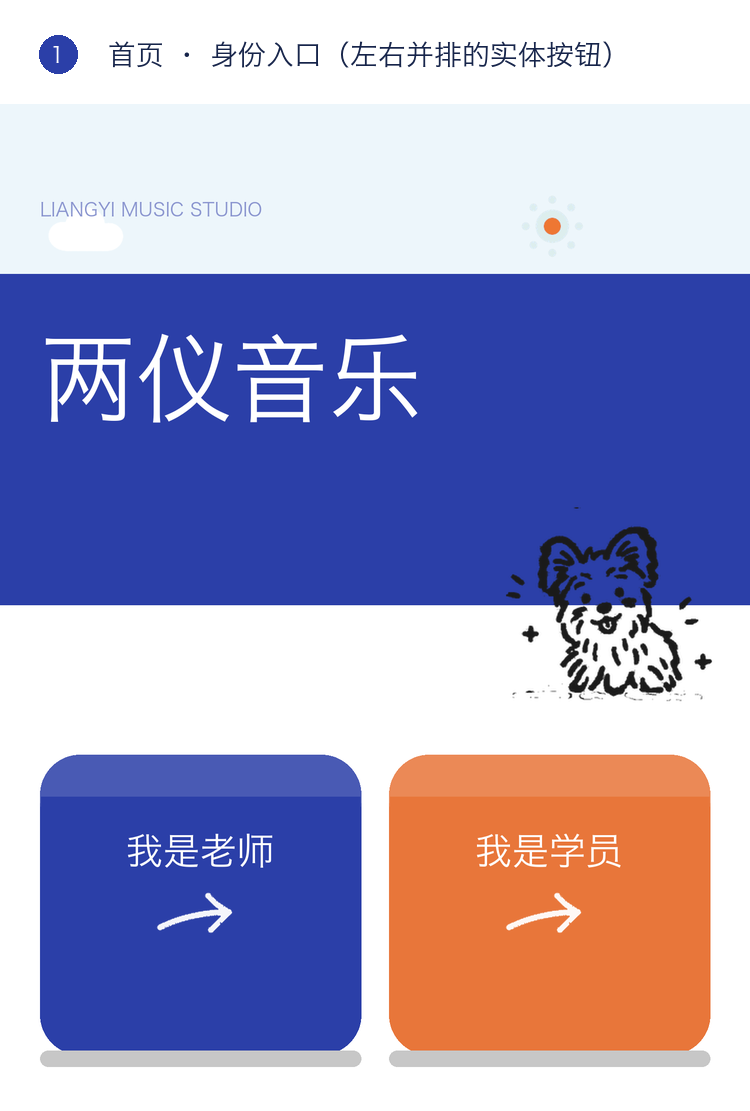
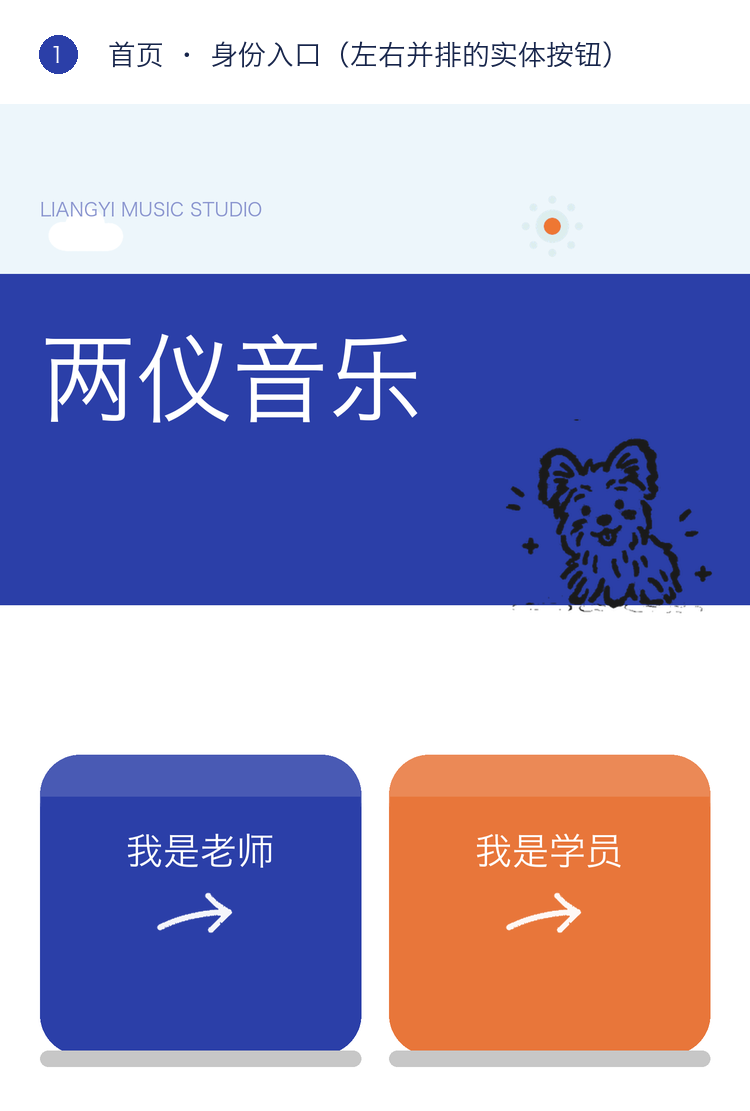
fix(ui): 小狗内联图改到 app.wxss（小程序实际加载的文件）
- 之前只更新了 assets/illustrations.wxss（构建中间产物，未被引用），
  所以清缓存也看不到变化；app.wxss 里的 base64 才是运行时用的
- 首页/登录页的狗上移：top -110 → -198，钴蓝 90% / 白底 10%
- 原型图与首页预览同步重渲染

Changed region(s): [[0.6747, 0.3978, 0.9507, 0.6427]]

diff --git a/tools/build_prd_assets.py b/tools/build_prd_assets.py
@@ -14,7 +14,7 @@ s.rect(0,0,W,170,fill=SKYL)
 s.ill('sun.png',514,84,76); s.ill('cloud.png',40,92,130)
 s.text(40,96,'LIANGYI MUSIC STUDIO',20,mix(COB,.55),True)
 s.rect(0,170,W,331,fill=COB); s.text(40,226,'两仪音乐',104,WHITE,True)
-s.ill('dog.png',504,391,210)                      # 骑跨色带交界，右侧
+s.ill('dog.png',504,303,210)                      # 骑跨色带交界，右侧
 by, bh, gap = 651, 300, 28
 bw = (W-80-gap)//2
 for i,(txt,bg) in enumerate([('我是老师',COB),('我是学员',TERRA)]):
